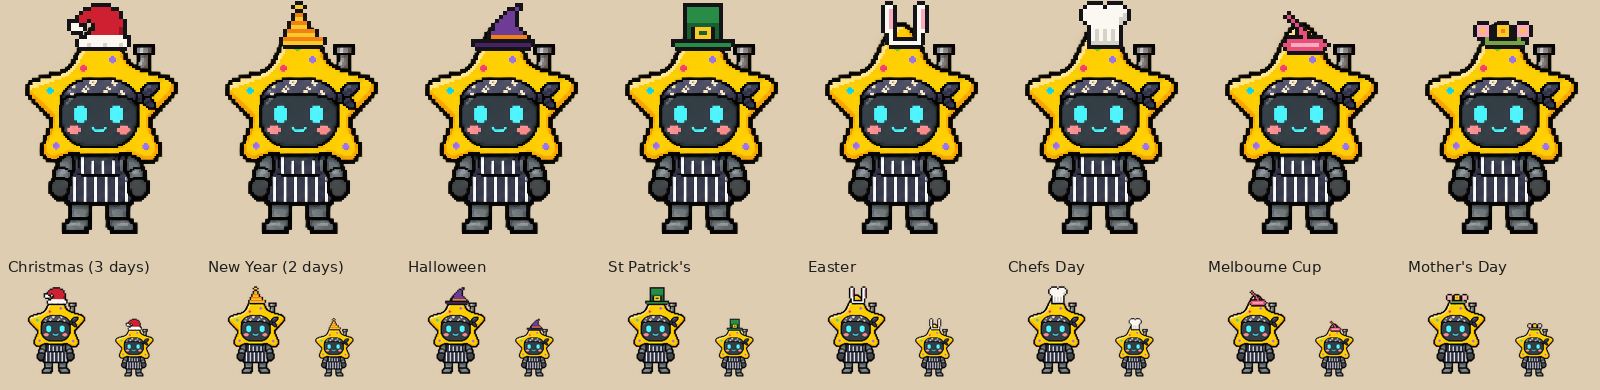
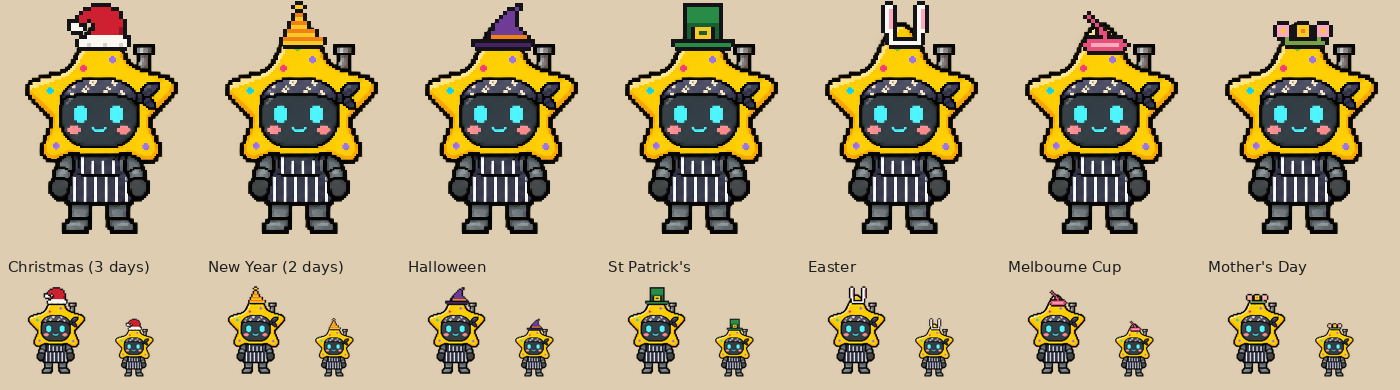
Notes: round 1 verdict, round 2 designs and the Christmas countdown places
Round 1 of the service council: Build smaller, 5 of 5 (hats only, no
bandana colours, no drop-on play; the new starter asks for equal accents
for every festival). Round 2 designs inside that cut, and three places
for the Christmas countdown asked the same day, previewed in the real
book on 1 December with the test stand-in.

Claude-Session: https://claude.ai/code/session_01JKvQc3d93UfzwAW6Hux8K3

diff --git a/docs/mascot-festive-options/designs.md b/docs/mascot-festive-options/designs.md
@@ -1,67 +1,83 @@
-# Three designs: the mascot in festive clothes
+# Designs: the mascot in festive clothes, and a Christmas countdown
 
-Round 2 of the service council. Preview only: no app code changed. Source commit `4eca7f4`. Screens: the real book in the click-test browser with the Firebase stand-in, synthetic staff, stand-in fonts, 2 x pixels, Christmas Day 2026 at 14:00 Queensland (Diwali shown on the same day with the calendar's test hook). The dressed art was swapped in by folder; the book's own `js/mascot.js` drew it, played it and rested it. All files in `evidence/`.
+Preview only: no app code changed. Source commit `4eca7f4`. Screens: the real book in the click-test browser with the Firebase stand-in, synthetic staff, stand-in fonts, 2 x pixels (the wide shots halved), Christmas Day 2026 at 14:00 Queensland (Diwali shown on the same day with the calendar's test hook), and Tuesday 1 December 2026 at 14:00 for the countdown. The dressed art was swapped in by folder; the book's own `js/mascot.js` drew, played and rested it. All files are in `evidence/`.
 
-This is decoration, so the designs cannot differ by task flow on a work page. They differ in **what he wears**, **where he wears it**, **which celebrations get it** and **whether the festival changes his daily play**. Every design: no new control, no words, no read, write, rule or listener; nothing moves on any page; Off on the device and the quiet days (Nyepi, Buddha Jayanti, Philippine Independence Day) leave him in his work clothes; reduced motion shows the clothes on the still and plays nothing by itself; the clothes are the same all kitchen day, whatever the list or the person's work is doing.
+## Round 1 sketches, before the cut
 
-## A. A hat on his star, everywhere, on the Australian and fun days
+Round 1 saw three wider sketches: A a hat on every pose everywhere, B a dress-up day on Home (a drop-on play, hat and festival bandana colours), C festival colours on his bandana for every celebration (`B-outfits-board.png`, `B-dressup-strip.png`, `C-bandana-board.png`, `C-xmas-home-390.png`, `C-diwali-home-390.png`). All five reviewers cut the bandana and the drop-on play ([brief](brief.md#round-1-should-he-be-dressed-build-smaller-5-of-5)). The designs below stay inside that cut: worn from the first frame, never animated on, no recolouring.
 
-**Central idea: one festive hat, worn all day wherever he stands, only where a hat is how people celebrate.**
+## Round 2: three designs inside the cut
 
-- **What:** a pixel hat drawn over the top point of his star in every frame and still. Bandana and apron unchanged.
-- **Which days:** the 16 Australian and fun days. Santa hat for Christmas Eve, Christmas Day and Boxing Day; a party cone for New Year's Eve and New Year's Day; heart band for Valentine's; green top hat for St Patrick's; bunny ears for Easter; flower crown for Mother's Day; fascinator for Melbourne Cup; witch hat for Halloween; toque for Chefs Day; [Father's Day and Coffee Day: to come]. None for Star Wars Day (a film's trademark) or World Food Day. Cultural and religious festivals: his work clothes, as today.
-- **Where:** Home (his speech bubble), under a finished prep list and on a finished section's tab. One look on every screen that day.
-- **Daily play:** unchanged. Today's shuffled action plays in the hat.
-- **Screens:** `A-xmas-home-390.png`, `A-xmas-home-1280.png` (close up `A-xmas-home-1280-zoom.png`), `A-xmas-done-390.png`, `A-xmas-done-1920.png`, `A-hats-board.png`, `A-frames-santa.png`.
+Every design: no new control, no words, no read, write, rule or listener; nothing moves on any page; Off on the device and the quiet days (Nyepi, Buddha Jayanti, Philippine Independence Day) leave him in his work clothes; reduced motion and Still show the piece on the still; the piece is the same all kitchen day whatever the list or the person is doing; the welcome's own rule decides the day (clock ready, celebrations On, a celebratory day). This is decoration, so the designs differ in **what he wears, which days, where, and on which frames**, not in a task flow.
 
-## B. A dress-up day on Home
+### A. A hat on every pose, wherever he stands, on the Australian and fun days
 
-**Central idea: Home is where the celebration lives, so that is where he dresses up, and he shows it with a play of its own.**
+**Central idea: a festive hat is how Australians dress up for these days, so he wears one all day, on every screen.**
 
-- **What:** the festival's hat and its colours on his bandana (`B-outfits-board.png`). Cultural and religious festivals get the bandana colours only, no hat.
-- **Which days:** every celebratory occasion, 37 days a year (the 16 Australian and fun days with hat and colours, the 21 festival days with colours).
-- **Where:** Home only. Under a finished prep list and on a finished section's tab he keeps his work clothes, the way work pages keep Kitchen Book (`B-xmas-done-390.png`).
-- **Daily play:** on the first Home view of a celebration day, a dress-up play takes the place of today's action: the hat drops onto his star from the top edge, the bandana turns as it lands, and he waves (`B-dressup-strip.png`, 8 frames, about 2.7 s). Today's shuffled action is kept for the next ordinary day. A tap replays the dress-up.
-- **Screens:** `B-xmas-home-390.png`, `B-xmas-home-1280.png` (close up `B-xmas-home-1280-zoom.png`), `B-xmas-done-390.png`, `B-diwali-home-390.png`, `B-outfits-board.png`, `B-dressup-strip.png`.
+- **Days (16):** Santa hat for Christmas Eve, Christmas Day and Boxing Day; party cone for New Year's Eve and New Year's Day; heart band for Valentine's; green top hat for St Patrick's; bunny ears for Easter; flower crown for Mother's Day; fascinator for Melbourne Cup; witch hat for Halloween; [Father's Day: to come]. None for Chefs Day (a toque reads as the chef hat, as the stamp did), Coffee Day, World Food Day or Star Wars Day (a film's trademark). Cultural and religious festivals: his work clothes, as today.
+- **Frames:** all 88 frames and 11 stills, from measured head positions, so the hat stays on through every play.
+- **Where:** Home, under a finished prep list (also at 192 x 256 px on a wide screen), and on a finished section's tab.
+- **Screens:** `A-xmas-home-390.png`, `A-xmas-home-1280-zoom.png`, `A-xmas-done-390.png`, `A-xmas-done-1920.png`, `A-hats-board.png`, `A-frames-santa.png`.
 
-## C. Festival colours on his bandana, every celebration, everywhere
+### B. A hat on his rest pose, on Home only, on the same days
 
-**Central idea: the smallest change that still covers every festival: his own bandana in the day's colours, no costume.**
+**Central idea: the least that still says it: Home is where the celebration lives, and he wears the hat when he stands still beside the wish.**
 
-- **What:** his bandana and its knot in two colours taken from the festival's own drawing (`C-bandana-board.png`). No hats.
-- **Which days:** every celebratory occasion, 37 days a year.
+- **Days:** the same 16 as A.
+- **Frames:** only his rest pose (the Welcome still). Today's action plays in his work clothes; when it ends he rests in the hat (`B-rest-only-strip.png`). One hat position per hat, not 99, so a redraw of the action art cannot leave a hat floating.
+- **Where:** Home only. Under a finished prep list and on a finished section's tab he keeps his work clothes, as work pages keep Kitchen Book (`B-xmas-done-390.png`).
+- **Screens:** at rest Home is `A-xmas-home-390.png`; `B-rest-only-strip.png`; `B-xmas-done-390.png`.
+
+### C. One small accent at his bandana knot, for every celebration with a wish
+
+**Central idea: every festival the book greets gets the same size of piece, taken from its own approved motifs, so nobody's festival looks smaller.**
+
+- **Days (37):** every celebratory occasion. A flower or sprig of one size tucked in his bandana knot: holly for Christmas, marigold for Diwali and Tihar (the ambience already uses marigolds), plum blossom for Lunar New Year (as its ambience), shamrock for St Patrick's, a small pumpkin for Halloween, [frangipani for Galungan and Kuningan, and each other festival's piece: to come after the cultural-symbol review] (`C2-accents-board.png`). A festival whose piece the review does not pass gets none.
+- **Frames:** all 88 frames and 11 stills; the knot is found in each from the art (`C2-frames-marigold.png`).
 - **Where:** Home, under a finished prep list and on a finished section's tab.
-- **Daily play:** unchanged.
-- **Measured weakness:** at 48 x 64 px on a phone the bandana is a thin band. Christmas red reads; Diwali marigold barely shows against his yellow star (`C-diwali-home-390.png`).
-- **Screens:** `C-xmas-home-390.png`, `C-xmas-home-1280-zoom.png`, `C-diwali-home-390.png`, `C-bandana-board.png`.
+- **Measured:** at 48 x 64 px on a phone the accent is about 11 px across: a dot of colour beside his face. The holly reads as red and green; the marigold as an orange flower (`C2-xmas-home-390.png`, `C2-diwali-home-390.png`).
+- **Screens:** `C2-xmas-home-390.png`, `C2-diwali-home-390.png`, `C2-xmas-done-390.png`, `C2-accents-board.png`, `C2-frames-marigold.png`.
 
-## How they differ
+### How they differ
 
 | | A | B | C |
 | --- | --- | --- | --- |
-| What he wears | A hat | Hat and bandana colours | Bandana colours |
-| Which days | 16 Australian and fun | 37 (21 with colours only) | 37 |
+| What he wears | A hat that says the day | The same hat | A small knot accent, equal for all |
+| Which days | 16 Australian and fun | 16 Australian and fun | 37, every celebration with a wish, after review |
+| Frames | All 99 | The rest pose only | All 99 |
 | Where | Home, finished list, finished section | Home only | Home, finished list, finished section |
-| Daily play | Unchanged | A dress-up play replaces it on the day | Unchanged |
-| Says which festival at 48 px | Yes, by the hat's shape | On hat days | Only by colour, weakly |
+| Says which day at 48 px | Yes, by its shape (Santa, witch, top hat, cone) | Yes, at rest | Mostly by colour |
 
-## The same task in each (the head chef's question: "Is he dressed today?")
+### The same check in each
 
 | | Today | A | B | C |
 | --- | --- | --- | --- | --- |
-| Taps for any main task | unchanged | unchanged | unchanged | unchanged |
-| Lines on a 390 px phone | unchanged | unchanged | unchanged | unchanged |
+| Taps for any main task | | unchanged | unchanged | unchanged |
+| Lines on a 390 px phone | | unchanged | unchanged | unchanged |
 | Navigation levels | 0 | 0 | 0 | 0 |
-| Measured rectangles that moved (Home 390 and 1280, finished list 390 and 1920) | none | none | none | none |
-| New reads, rules, listeners | none | none | none | none |
-| Art per occasion | none | one pixel hat (about 0.5 KB of code) | hat and two colours, plus one dress-up clip drawn in code | two colours (about 30 bytes) |
-| Build size | | 1 pull request | 1 to 2 (the dress-up play and its bag rule) | 1 pull request |
-| Relearning | none | none | none | none |
-| Risk | | a hat misplaced in a frame; a work page shows a festive touch | the dress-up replaces an action; plain on work pages may read as "he changed back" | too subtle to notice on a phone |
+| Measured rectangles that moved (Home 390 and 1280, finished list 390 and 1920) | | none | none | none |
+| Reads, rules, listeners | none | none | none | none |
+| Art and code | | 99 head positions, about 1 KB; about 0.5 KB per hat | about 0.5 KB per hat, one position each | 99 knot positions, about 1 KB; about 0.3 KB per accent |
+| Build size | | 1 pull request | 1 pull request, smaller | 1 pull request, then one per batch of reviewed accents |
+| Cultural review | none needed beyond the hats | none | each festival's accent |
+| Main risk | a hat misplaced in one frame; a festive piece beside "Every line ticked" | the hat appears as the play ends, which can read as a change of clothes | too small to notice; a festival without a passed accent is left out |
 
 ## Prototype checks (Preview)
 
-- **The hat follows him.** The top of his star, its tilt and his size were measured from the art in all 99 pictures (88 frames, 11 stills). The smoker pose is smaller and further left; the hat scales with it (`A-frames-santa.png`).
-- **The frame's top edge.** The art leaves 22 to 34 px above his star. Across all 99 pictures the worst cut is 3.7 px of 256 (the party cone, bunny ears and toque in Serve and Build frames), 1.6 px for the Santa and witch hats, none for the fascinator and flower crown. Under 1 px at 48 x 64 and 72 x 96 px; visible only at 192 x 256 px. Repair: move that hat down by the cut in those frames.
-- **The bandana** is found in every frame by its colour above the eye line and in the knot beside it; the face screen, apron stripes and outline are left alone (checked by eye on the boards; not measured pixel by pixel).
-- **Not exercised in the preview:** midnight from Boxing Day to an ordinary day with Home or a finished list open, Off switched on with Home open, an older saved copy of `js/mascot.js`, reduced motion, the dress-up play's effect on the shuffled set, dark mode, the section screens at 1.5 m.
+- **Hats follow him.** The top of his star, its tilt and his size were measured from the art in all 99 pictures. The smoker pose is smaller and further left; the hat scales with it (`A-frames-santa.png`).
+- **The frame's top edge.** The worst cut is 3.7 px of 256 (party cone, bunny ears in some Serve and Build frames), 1.6 px for the Santa and witch hats, none for the fascinator and flower crown: under 1 px at 48 x 64 and 72 x 96 px. Repair: move the hat down by the cut in those frames.
+- **The knot** is found in every frame as the navy pixels right of the eyes, at and above the eye line (`C2-frames-marigold.png`). Checked by eye, not pixel by pixel.
+- **Not exercised in the preview:** midnight with Home or a finished list open, Off chosen with Home open, an older saved copy of `js/mascot.js`, reduced motion and Still, dark mode, the section screens at 1.5 m, real phones.
+
+## The Christmas countdown: three places (quick check)
+
+Asked the same day: "And add a Christmas celebration countdown?" Shown for Tuesday 1 December 2026, 24 days before Christmas Day. Each runs from 1 to 23 December (Christmas Eve has its own wish), counts in Queensland days from the book's clock, and needs no read. The words were placed by hand in the real page after it drew (Preview). Today on 1 December Home says "Welcome, Ann" and the Coming up card is hidden: it shows only the next 7 days (`K0-dec1-home-390.png`).
+
+| | K1. He says it | K2. Coming up line | K3. On the date line |
+| --- | --- | --- | --- |
+| What | The welcome bubble: "24 days to Christmas, Ann" | Home's Coming up card shows "Christmas Day, in 24 days" with the Christmas stamp | "Tuesday 1 December · 14:00 · 24 days to Christmas" |
+| 390 px phone | Bubble on two lines: Your day starts 29 px lower (171 to 200 px). A 40-character name stays on two lines at the long-name size (`K1-bubble-390.png`, `K1-bubble-long-390.png`) | Nothing above Your day moves; the card is at the foot of Home, below Prep by section (`K2-coming-390.png`) | Date wraps: Your day 23 px lower, and he drops 23 px below his bubble's tail (`K3-dateline-390.png`) |
+| 1280 px | One line, nothing moves (`K1-bubble-1280.png`) | The card shows below Prep by section (`K2-coming-1280.png`) | One line, nothing moves (`K3-dateline-1280.png`) |
+| What it replaces | The ordinary welcome words for 23 days (a shift wish such as "Enjoy your break" would keep its place, by the welcome's order) | Nothing | Nothing |
+| Pattern | The approved welcome bubble (17 Nov 2026) | The approved Coming up line with stamps (3 Nov 2026), its window stretched for Christmas | A new use of the date line |
+| Taps, controls | none | none | none |

diff --git a/docs/mascot-festive-options/brief.md b/docs/mascot-festive-options/brief.md
@@ -1,0 +1,33 @@
+# The mascot in festive clothes, and a Christmas countdown
+
+Asked 17 November 2026 (owner): "Can we dress the mascot in festive clothing for the celebrations?", then "And add a Christmas celebration countdown?" This is the service council record. No app code has changed. The head chef decides. Source commit `4eca7f4`.
+
+The proposal is [proposal.md](proposal.md), the reviewers' evidence is [evidence-packet.md](evidence-packet.md), and the first three designs are [designs.md](designs.md). Screens are in `evidence/`: the real book in the click-test browser with the Firebase stand-in, synthetic staff, stand-in fonts (Preview). This is role-based review, not research with real staff.
+
+## Round 1: should he be dressed? Build smaller, 5 of 5
+
+| Reviewer | Verdict | The cut they asked for |
+| --- | --- | --- |
+| Cook mid-service | Build smaller | Hats only, on every pose and still from the first frame. No drop-on play, no bandana-only days |
+| Head chef | Build smaller | Hats only, on the Australian fun days. No bandana, no festival costumes, no dress-up play. Ship before 24 December |
+| Skeptic | Build smaller | Hats on the Australian and fun days only, still, no drop. No bandana. His usual clothes on every religious and cultural festival; no festival changes his daily action. Christmas and New Year first, then judge |
+| New starter | Build smaller | One rule for every festival with a wish: an accent of equal size, passed by the cultural-symbol review, on from the first frame, never animated on. Drop any accent that cannot be drawn respectfully and legibly |
+| Keeper of the book | Build smaller | The hat only. The welcome's rule decides the day (clock ready, celebrations On, a celebratory day); `js/app.js` and `js/prep.js` pass it in; no listener in `js/mascot.js` |
+
+**Why, in one line each.** No reads, taps or lines, and every measured rectangle is unchanged (Preview). The hat reads at 48 x 64 px; the bandana does not (Diwali marigold barely shows). The dress-up play is new movement with no kitchen job (Flighty, Duolingo's "decorative rewards", Headspace). Cultural festivals carry respect risk.
+
+**Disagreement.** The new starter alone: hats for Christmas and Halloween and nothing for Diwali makes "my festival look smaller". The other four: no clothes on religious and cultural festivals at all.
+
+**Leading break-it findings (carried into round 2 and the build).**
+
+| Scenario | Evidence | Repair or check |
+| --- | --- | --- |
+| Home open across midnight from Boxing Day, or Off chosen in Settings: he keeps the Santa hat | Risk / Not evidenced | Repaint his rest pose from the `kb-seasonal-state` handler in `js/app.js`, which already skips repeats; a click test at 23:59 and 00:01, with Off, a quiet day and an older copy of `js/mascot.js` |
+| No signal on Christmas morning: he is painted before the clock is ready and stays plain | Risk / Not evidenced | The same repaint once the welcome changes |
+| The art is redrawn later: the measured head positions go stale and the hat floats | Risk | The position table names its art version; no hat when they differ; a node check of all 99 head points |
+| A hat cut by the frame's top edge | Reproduced in the prototype: at most 3.7 px of 256 (party cone, bunny ears, toque), 1.6 px Santa and witch hats | Move that hat down in those frames |
+| A hat that reads as something else at 48 px (precedent: the Easter and Chefs Day stamps read as the chef hat; the Mother's Day ribbon read as a red cross) | Checked in Preview for Santa only | Check each hat at 48 x 64 px; drop the toque; the Melbourne Cup and Mother's Day pieces read as pink smudges |
+| Bandana recolour reading back canvas pixels (colour profiles, privacy noise, a SecurityError) | Risk | Not needed once the bandana is cut |
+| A festive piece beside "Every line ticked" read as a prize for finishing | Hypothesis | Clothes follow the date only, the same all day; never animated on |
+
+Not evidenced for any design yet: dark mode, the 21 to 24 inch section screens at 1.5 m, real phones, reduced motion and Still on the built code.
